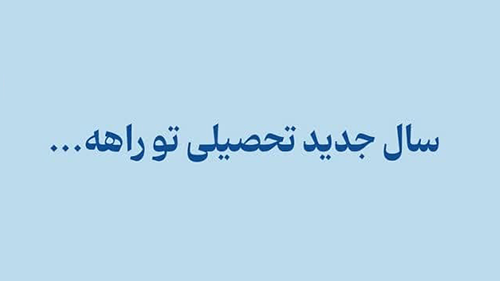
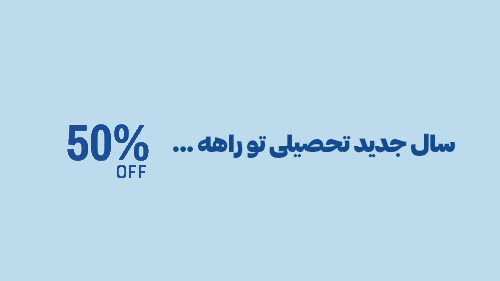
feat: Add images to swiper

Changed region(s): [[0.09, 0.427, 0.93, 0.6548]]

diff --git a/src/pages/home-page/HomePage.tsx b/src/pages/home-page/HomePage.tsx
@@ -76,6 +76,24 @@ export default function HomePage() {
             <SwiperSlide>
               <div className="flex justify-center items-center">
                 <img
+                  src="/src/assets/images/Ad-5.png"
+                  alt=""
+                  className="rounded-xl w-[350px]"
+                />
+              </div>
+            </SwiperSlide>
+            <SwiperSlide>
+              <div className="flex justify-center items-center">
+                <img
+                  src="/src/assets/images/Ad-6.png"
+                  alt=""
+                  className="rounded-xl w-[350px]"
+                />
+              </div>
+            </SwiperSlide>
+            <SwiperSlide>
+              <div className="flex justify-center items-center">
+                <img
                   src="/src/assets/images/Ad-4.png"
                   alt=""
                   className="rounded-xl w-[350px]"
